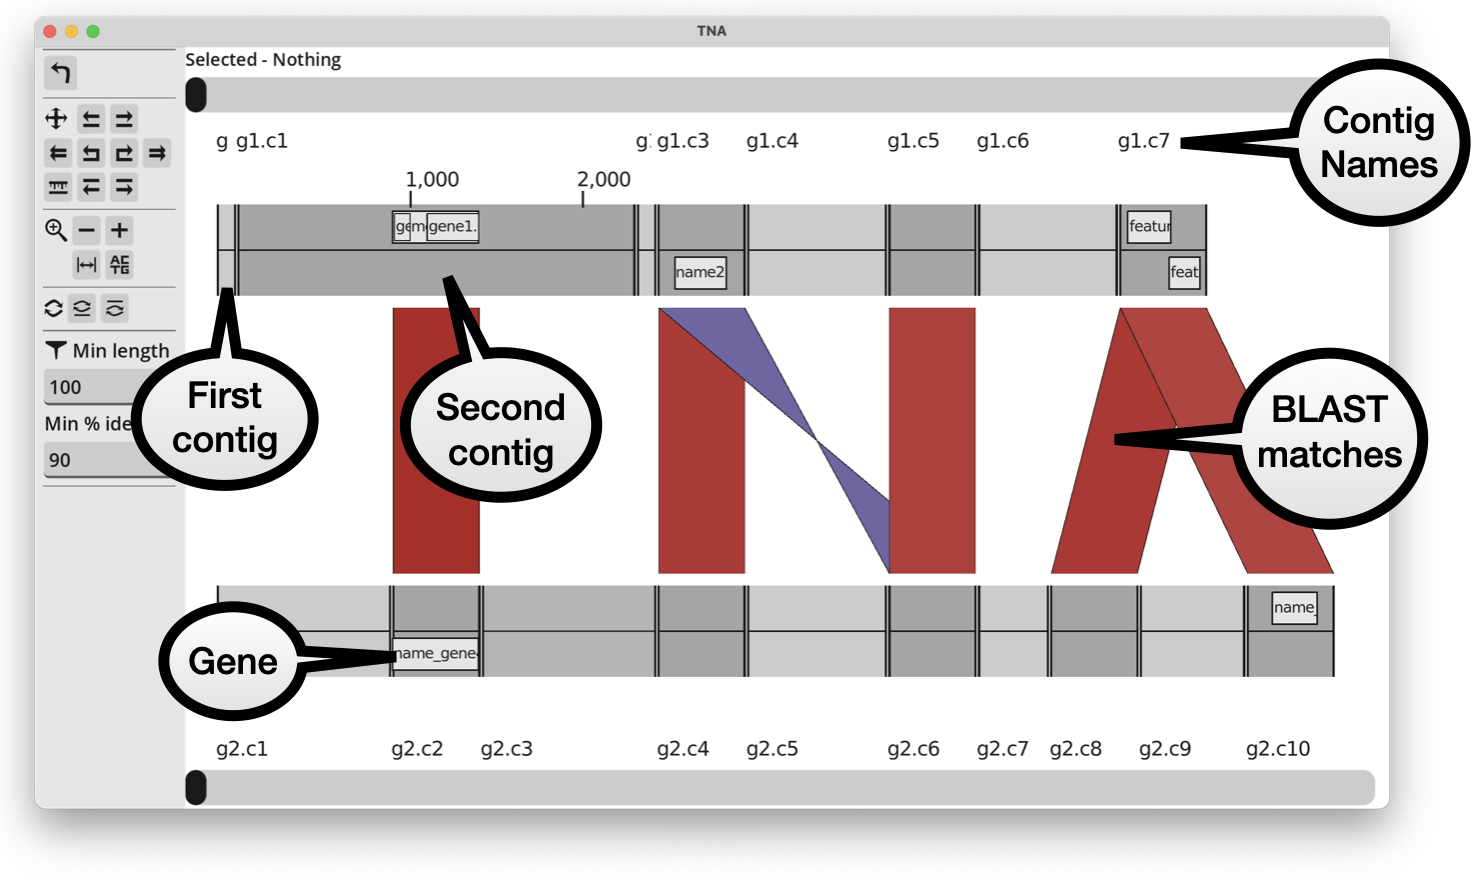
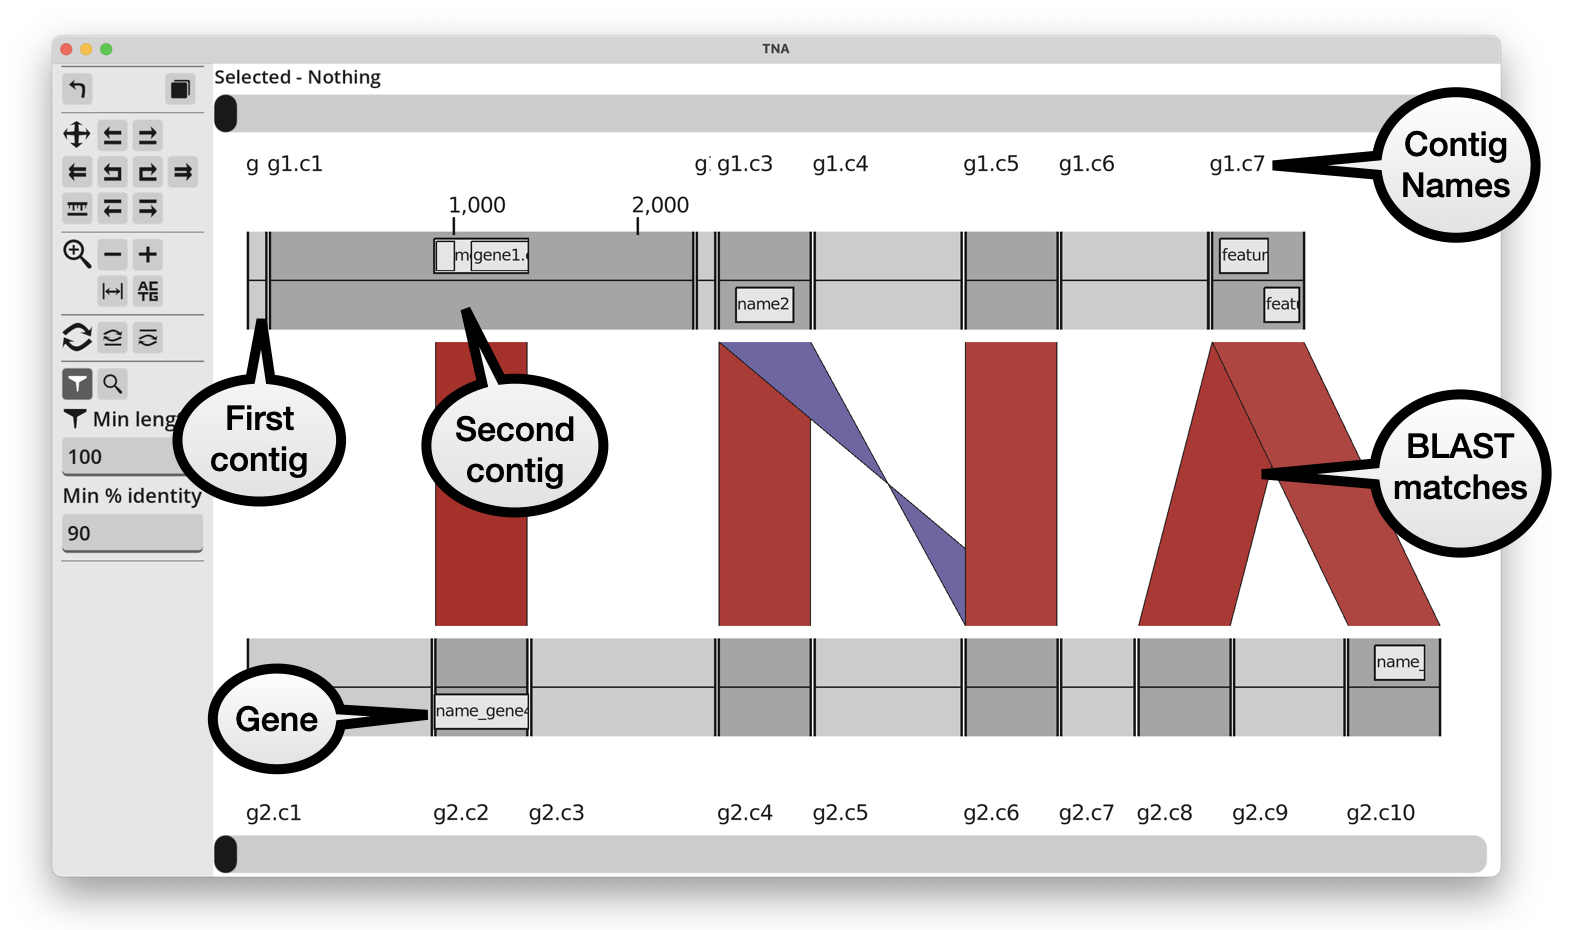
Update docs for release 0.2.0

diff --git a/docs/conf.py b/docs/conf.py
@@ -14,7 +14,10 @@ release = '0.0.1'
 # -- General configuration ---------------------------------------------------
 # https://www.sphinx-doc.org/en/master/usage/configuration.html#general-configuration
 
-extensions = []
+extensions = [
+    "sphinx.ext.autosectionlabel",
+]
+autosectionlabel_prefix_document = True
 
 templates_path = ['_templates']
 exclude_patterns = ['_build', 'Thumbs.db', '.DS_Store']

diff --git a/docs/searching.rst b/docs/searching.rst
@@ -1,0 +1,57 @@
+Searching
+=========
+
+The search panel can be opened by clicking the magnifying glass search
+icon on the left.
+
+
+.. image:: pics/tna_docs_search_panel.png
+   :width: 100
+   :alt: screenshot showing search panel
+
+
+
+Search for sequence
+-------------------
+
+Search for a nucleotide sequence by putting it into the sequence search
+box and pressing enter. This finds exact sequence matches on either the forward
+or reverse strands of either genome, and is case-insensitive.
+The matches will be listed in the panel
+at the bottom. Click on a match to highlight it and jump so that it starts
+in the middle of the screen. Use the up/down buttons to scroll through the
+matches.
+
+Sequence can be pasted into the search box in FASTA format. TNA will deal
+with this by removing the header line. If multi-FASTA is pasted, only the
+first record will be used and all other ones ignored. This means you can
+highlight a region (see
+:ref:`Selecting/copying a region <viewing:Selecting and copying a region>`), copy
+it and then paste into the search box. But pasting into another application
+will still paste the full FASTA format.
+
+
+.. image:: pics/tna_docs_seq_search.png
+   :width: 400
+   :alt: screenshot showing sequence search
+
+
+
+Search for annotation
+---------------------
+
+Search for annotation features by typing a search term into the annotation
+search box and pressing enter. This will find all annotation features that
+contain the search string anywhere in their metadata. It is a case-insensitive
+search. For example, searching for "ppe" in the *M. tuberculosis* genome
+will return all of the PPE genes: PPE1, PPE2, ... etc.
+
+In the same way as sequence search, the results will be listed in the panel
+at the bottom. Selecting one of the results will highlight that feature
+and jump the view so that the feature starts in the middle of the screen.
+
+
+.. image:: pics/tna_docs_search_annot_ppe_example.png
+   :width: 500
+   :alt: screenshot showing search for ppe genes
+

diff --git a/docs/viewing.rst b/docs/viewing.rst
@@ -138,10 +138,11 @@ Filtering matches
 -----------------
 
 Matches that are shown can be filtered by minimum length or percent identity,
-using the boxes in the left panel.
+using the boxes in the left panel. If it is not already selected, press the
+"filter" icon to show the filter options.
 
 .. image:: pics/tna_docs_match_filter.png
-   :width: 180
+   :width: 140
    :alt: screenshot of match filter controls
 
 By default, only matches longer than 100bp and at least 90% identity are
@@ -158,7 +159,7 @@ highlighted region are listed in the bottom of the left hand panel.
 
 
 .. image:: pics/tna_docs_match_list.png
-   :width: 500
+   :width: 520
    :alt: screenshots of making a list of matches
 
 Click on any of the matches listed on the left to jump to them in the main
@@ -166,6 +167,27 @@ viewing window. Or there are up and down arrows to scroll through them, making
 it easy to jump to each match in turn. Pressing the "X" button
 will close the list.
 
+
+Selecting and copying a region
+------------------------------
+
+After dragging along any region of either genome with the left mouse
+button, it remains highlighted and the coordinates are in the top where
+it says "Selected = Region: ...". Dragging from left to right will select
+the forwards strand, and from right to left selects the reverse strand.
+
+The highlighted sequence can be copied to the clipboard using
+ctrl-c (Windows/linux) or cmd-c (macOS), or by pressing the "copy" button
+at the top.
+
+.. image:: pics/tna_docs_copy_region.png
+   :width: 300
+   :alt: screenshots of making a list of matches
+
+The sequence is copied in FASTA format and includes the sequence coordinates
+in the FASTA header. It will be reverse complemented if the reverse strand
+was highlighted. If the highlighted region spans more than one contig, then
+it will be in multi-FASTA format.
 
 
 Saving and loading positions

diff --git a/docs/loading.rst b/docs/loading.rst
@@ -12,13 +12,21 @@ You can add the top and bottom genome files with one of:
 
 * dragging and dropping from your file browser into the box
 * typing the full path to the filename in the box
-* typing in accession in the box. This can be a GenBank/RefSeq
-  accession starting with ``NC_``, ``AC_``, ``NZ_``, or ``NT_``, or an
-  assembly accession starting with ``GCA_`` or ``GCF_``. TNA will first
-  check that what you put in the box is not a file on your computer, then
-  if the accession starts with any of those then it will try to download it
-  when the "start" button is pressed later. It will download a FASTA file and
-  also try to get a GFF file for annotation.
+* typing an accession in the box. This can be a GenBank/RefSeq
+  sequence accession, or an assembly accession starting
+  with ``GCA_`` or ``GCF_``.
+
+TNA will first check if what you put in the box is a file on your computer.
+If it is not, then it checks to see if it "looks like" an accession. This
+means that it starts with ``GCA_``, ``GCF_``, ``AC_``, ``NC_``, ``NG_``,
+``NT_``, ``NW_``, ``NZ_``, or it starts with two letters followed by at
+least six digits and then anything else afterwards - for example ``CP039850.1``.
+If it looks like an accession then it will try to download
+the sequence and annotation. Note that this is not sanity checked and providing
+an accession that does not exist will result in errors upon trying to
+download. It is intentionally permissive - allowing two letters plus dix digits
+etc - so as to not rule out real accessions because it is not trivial to
+specify exactly what counts as a real accession.
 
 TNA automatically detects the format (and any compression)
 of each sequence file based on its contents, not the name of the file.

diff --git a/docs/installation.rst b/docs/installation.rst
@@ -125,3 +125,11 @@ as expected. It should look like this:
    :alt: screenshot showing the test data after loading
 
 
+
+Updating TNA
+------------
+
+To update TNA, download a new release and then replace the existing TNA
+file with the new downloaded file. If TNA needs a newer version of ``tnahelper``
+or the BLAST programs, then they will be automatically downloaded when the new
+version of TNA is started.

diff --git a/docs/settings.rst b/docs/settings.rst
@@ -43,3 +43,5 @@ The options are:
   Displaying too many will significantly impact memory usage.
   The default of 500 should be enough - a lot more than this and the screen
   ends up filled in to the point where it is impossible to see anything useful.
+* FASTA line length: the length of each line when copying/pasting sequence.
+  Must be a non-negative integer. Put zero to have no line breaks in sequences.

diff --git a/docs/index.rst b/docs/index.rst
@@ -17,6 +17,7 @@ under the permissive MIT license. Please report any issues on GitHub.
    installation
    loading
    viewing
+   searching
    contig_editing
    saving_n_loading
    keyboard_shortcuts
